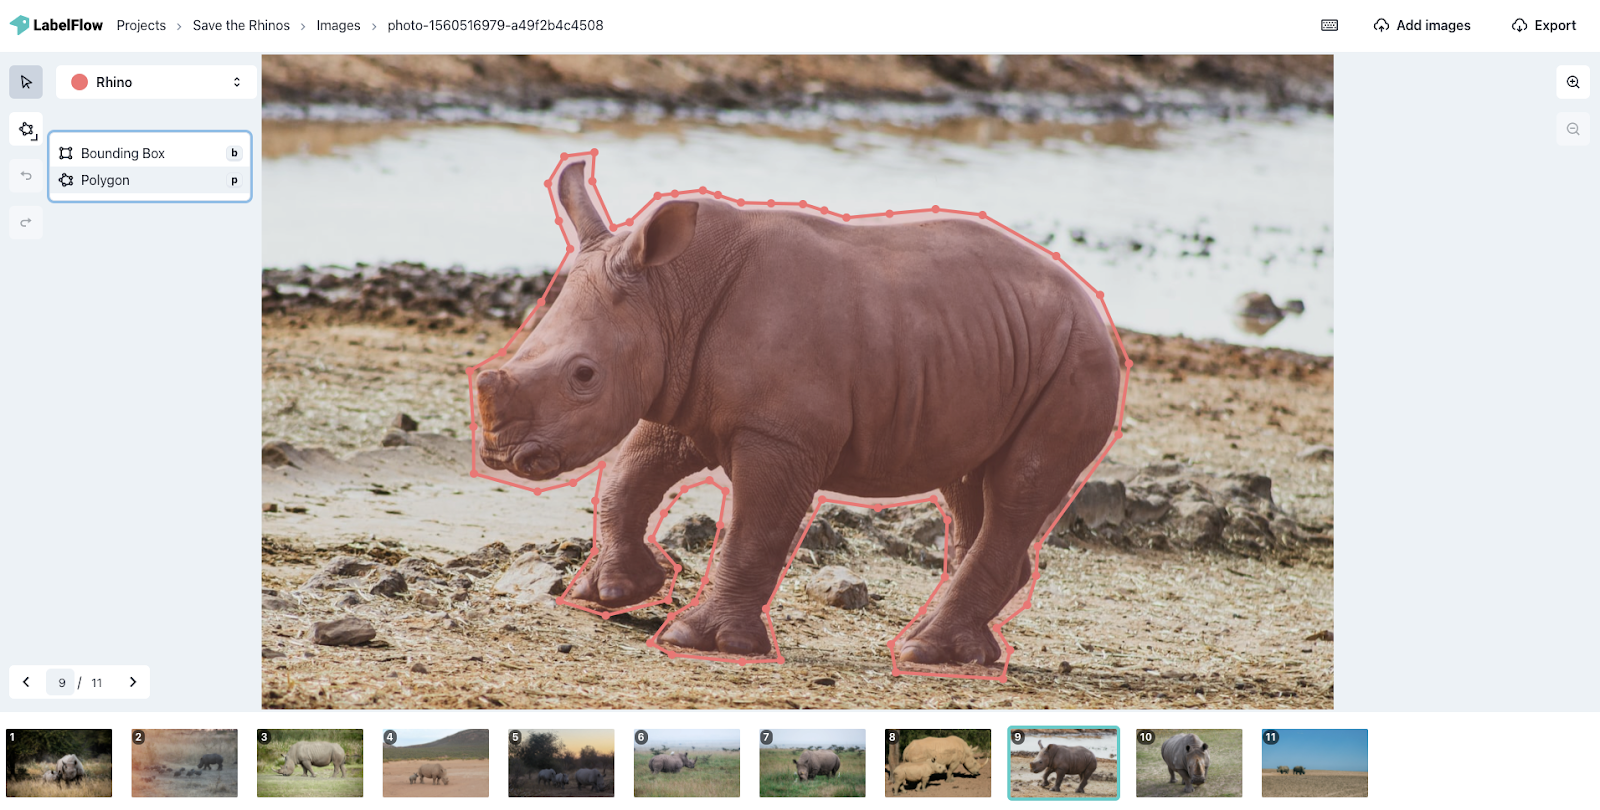
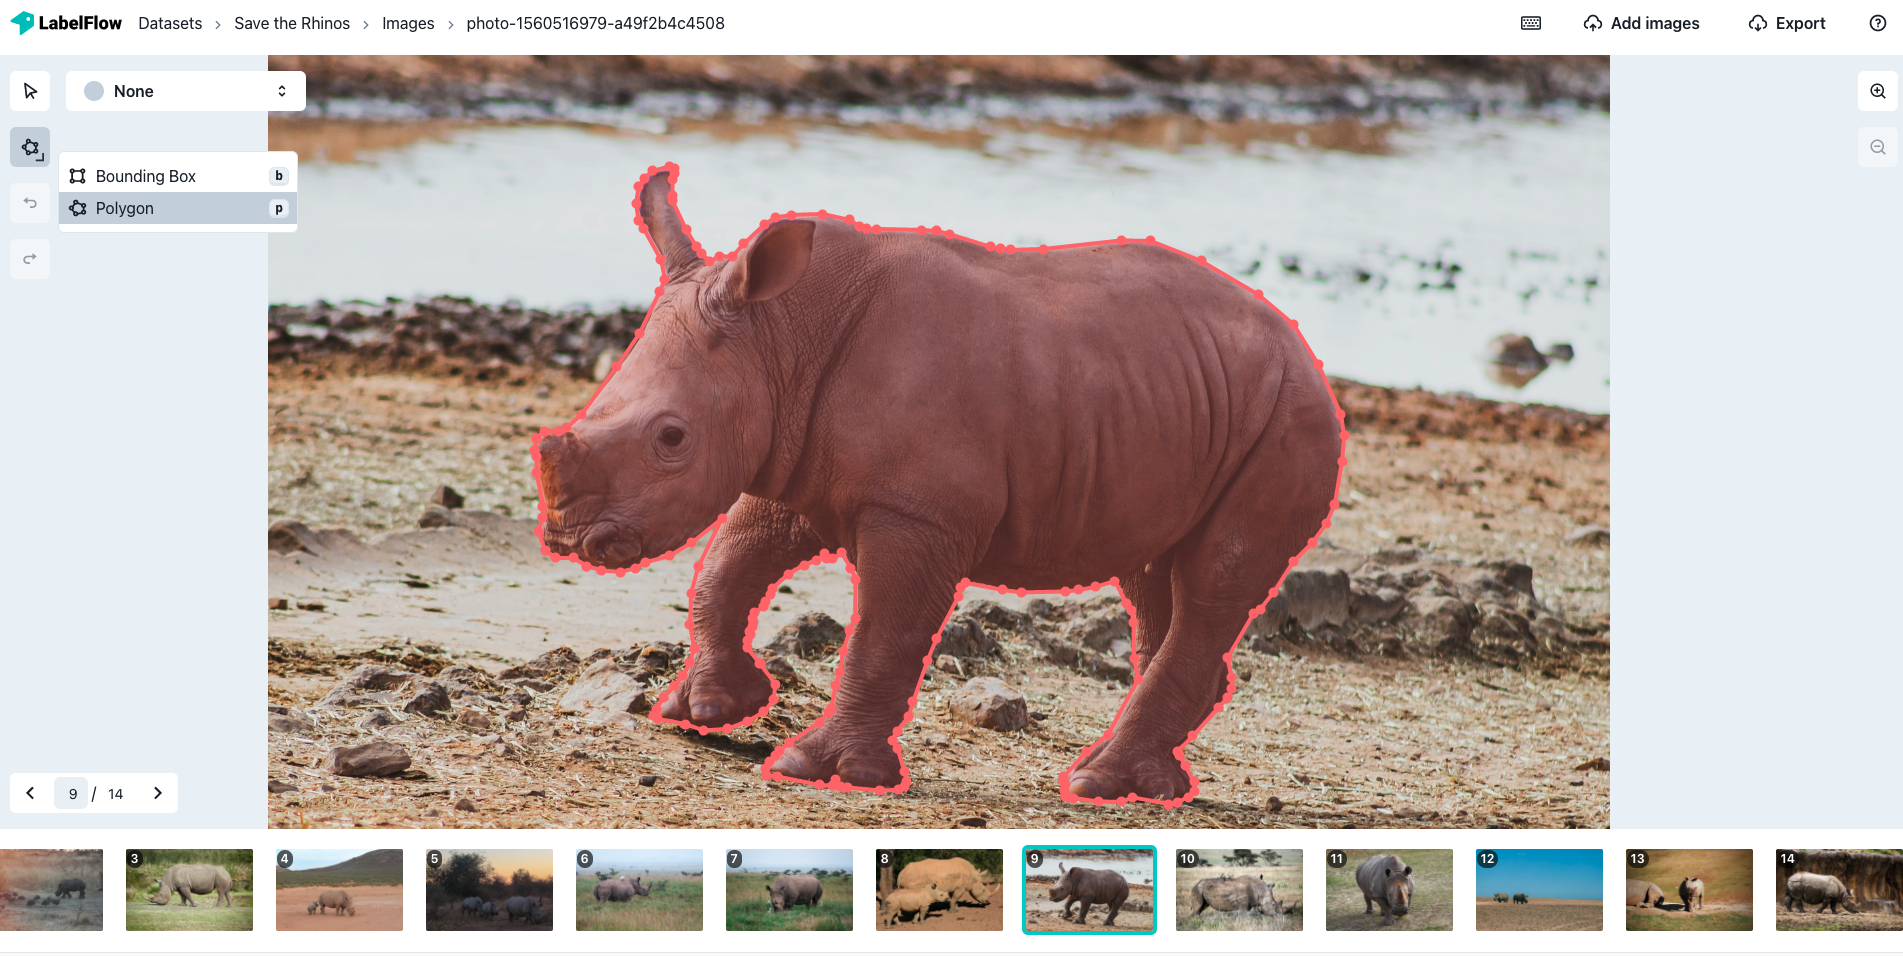
GitBook: [master] one page and one asset modified

diff --git a/labeling-interface/quick-start.md b/labeling-interface/quick-start.md
@@ -34,7 +34,7 @@ Select the bounding box tool and click on the edges of the Rhinos you would like
 
 #### Polygon
 
-![](https://lh3.googleusercontent.com/g9-tURADK7BmteeYc4Lw2wLble271Wq8fzq8YWrUnE4L8fANZli0wYehgAYcUNRMchnZDA3yLlTssa1GXlM4EGjGYrU6SuyJNPt6HaHuQaofREUDiMuOMn6mcrAMmCoeVIhfz0gi)
+![](../.gitbook/assets/polygon_tool.png)
 
 Select the small arrow on the drawing tool and choose the polygon tool. Draw a polygon around the rhino and adjust the vertices at the end by dragging them.
 
